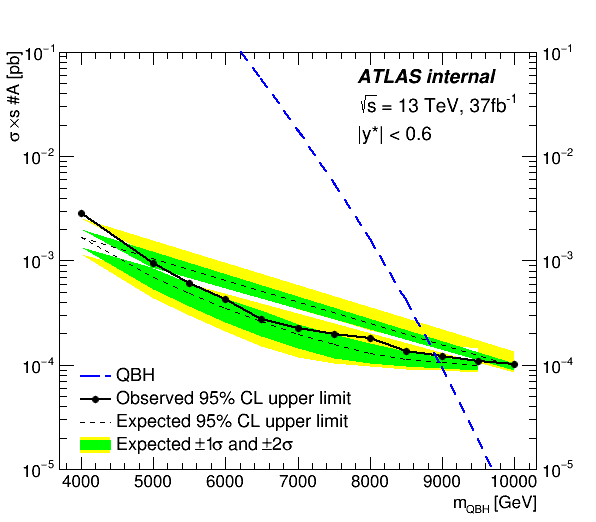
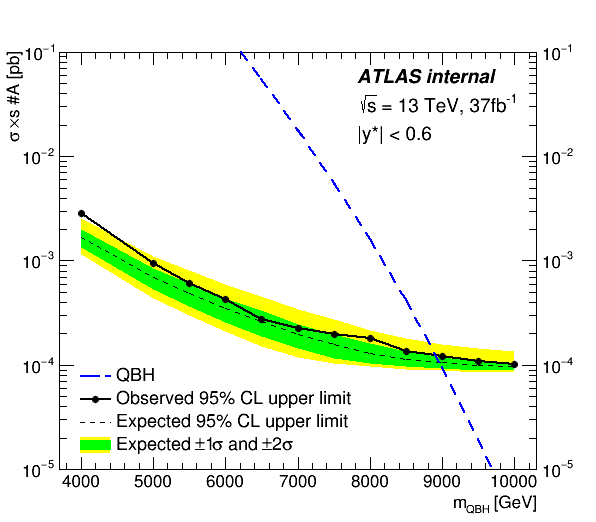
Fix brazil plot sorting for qbh

Changed region(s): [[0.1208, 0.3985, 0.8456, 0.7356]]

diff --git a/week17/plot_brazil.py b/week17/plot_brazil.py
@@ -161,8 +161,9 @@ for mass_folder in sorted(os.listdir(base_path)):
 
 mass_points = sorted(mass_points)
 
-"""brazil_data = sorted(brazil_data, key=itemgetter(0))
-print("With luminosity uncertainty")
+brazil_data = sorted(brazil_data, key=itemgetter(0))
+
+"""print("With luminosity uncertainty")
 print("Mass\tMean\tlow2s\tlow1s\thigh1s\thigh2s")
 for (mass, mean, rms, low_2, low_1, high_1, high_2) in brazil_data:
     print("{0:.0f}\t{1:.02f}\t{2:.02f}\t{3:.02f}\t{4:.02f}\t{5:.02f}".format(

diff --git a/week17/plot_brazil_79fb.py b/week17/plot_brazil_79fb.py
@@ -161,8 +161,9 @@ for mass_folder in sorted(os.listdir(base_path)):
 
 mass_points = sorted(mass_points)
 
-"""brazil_data = sorted(brazil_data, key=itemgetter(0))
-print("With luminosity uncertainty")
+brazil_data = sorted(brazil_data, key=itemgetter(0))
+
+"""print("With luminosity uncertainty")
 print("Mass\tMean\tlow2s\tlow1s\thigh1s\thigh2s")
 for (mass, mean, rms, low_2, low_1, high_1, high_2) in brazil_data:
     print("{0:.0f}\t{1:.02f}\t{2:.02f}\t{3:.02f}\t{4:.02f}\t{5:.02f}".format(
